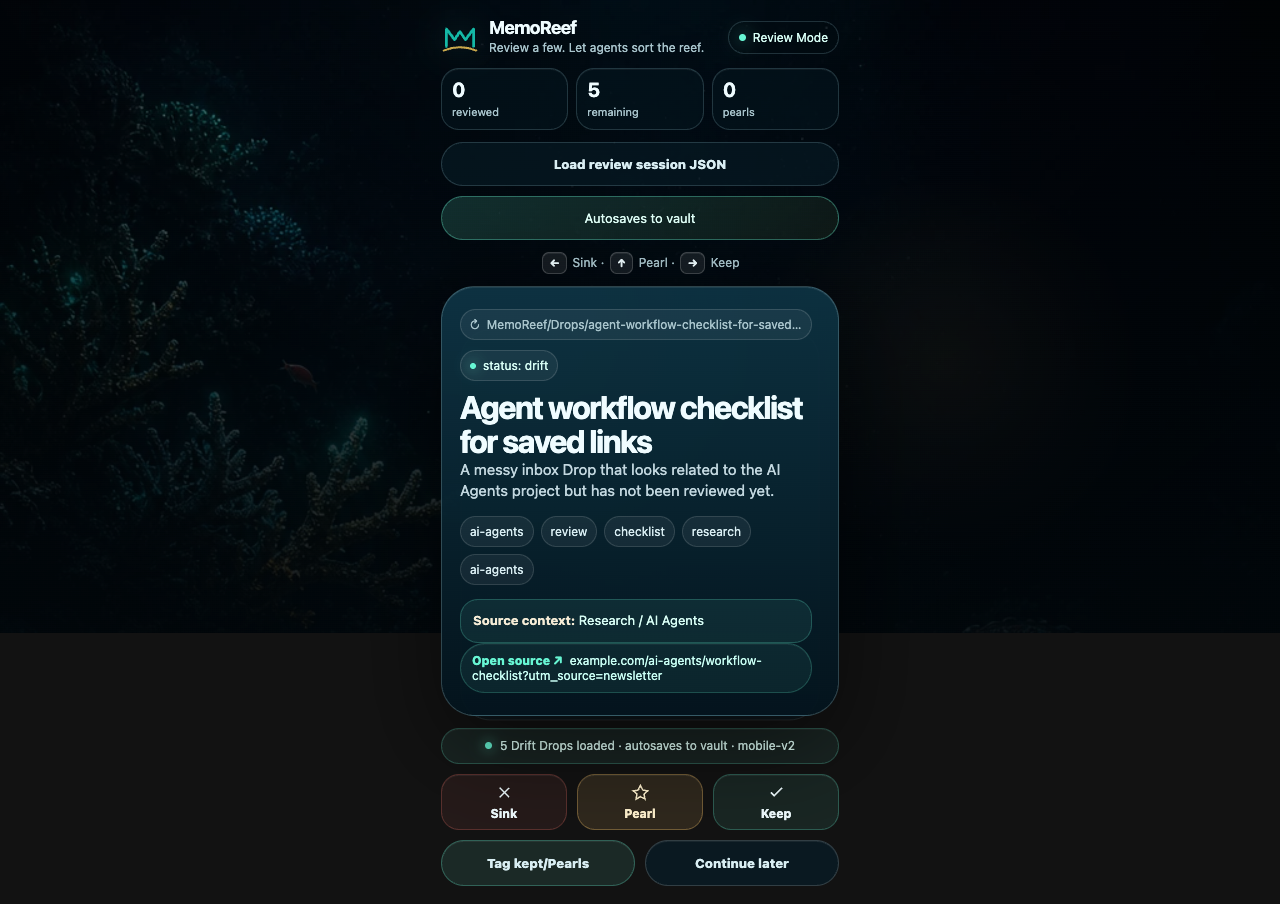
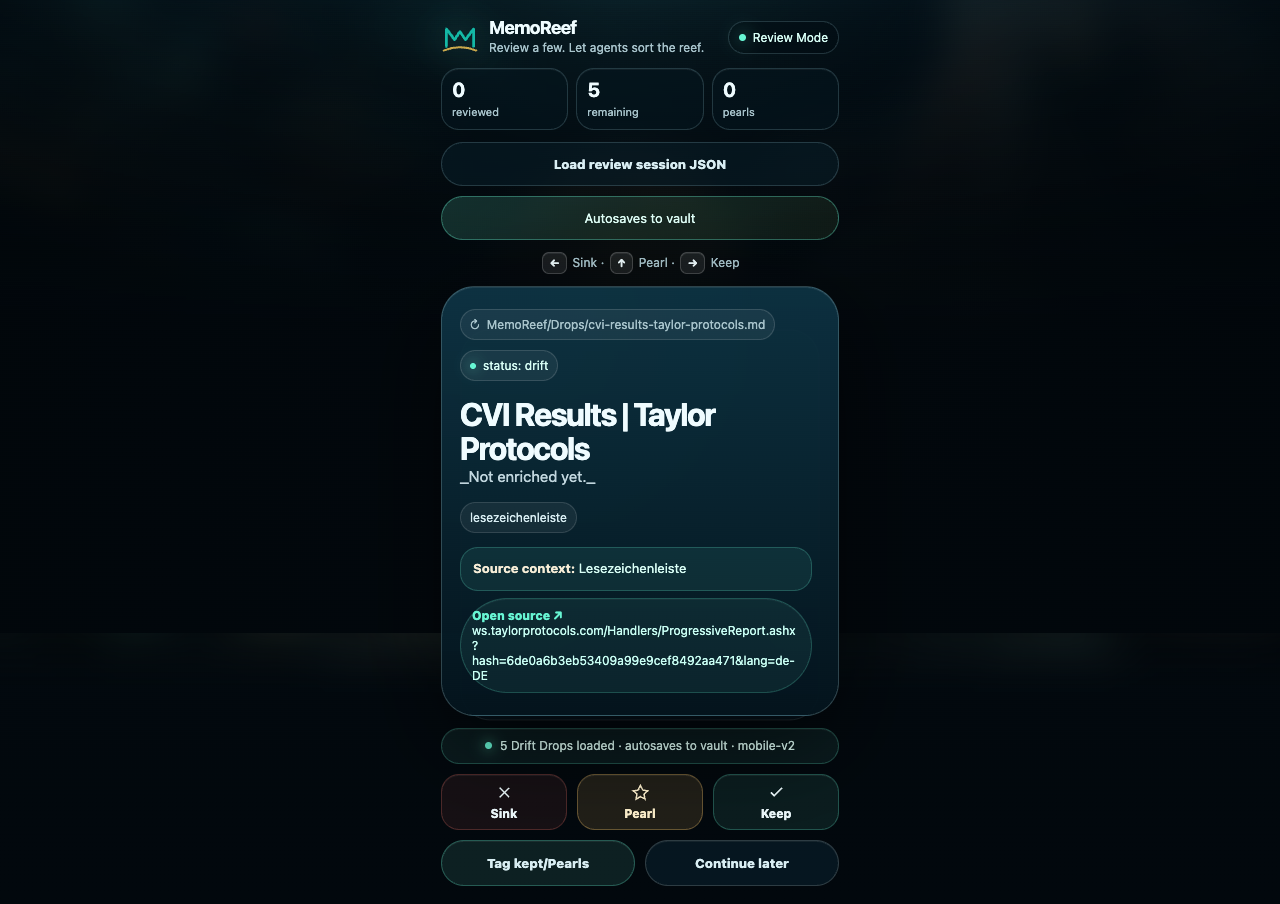
Fix Review Mode screenshot background

diff --git a/site/swipe.html b/site/swipe.html
@@ -44,7 +44,6 @@
       color: var(--ink);
       background:
         linear-gradient(180deg, rgba(1, 6, 10, .06), rgba(1, 6, 10, .56) 48%, #02080d 100%),
-        url("img/masters/reef-octopus-master-v3.webp") center top / cover fixed,
         radial-gradient(circle at 50% -10%, rgba(103, 245, 211, .18), transparent 18rem),
         linear-gradient(180deg, #0a2b3b 0%, var(--deep) 38%, var(--abyss) 100%);
       overflow-x: hidden;
@@ -61,15 +60,19 @@
     }
 
     body::before {
-      display: none;
+      display: block;
+      background: url("img/kling_sources/horizontal/s5-octopus-horizontal-16x9-source.png") center center / cover no-repeat;
+      filter: blur(18px) saturate(.9);
+      opacity: .46;
+      transform: scale(1.08);
     }
 
     body::after {
       background:
-        linear-gradient(90deg, rgba(1,6,10,.56), rgba(1,6,10,.12) 48%, rgba(1,6,10,.6)),
-        linear-gradient(180deg, rgba(1,6,10,.18), rgba(1,6,10,.72)),
-        radial-gradient(circle at 74% 58%, rgba(255,200,107,.16), transparent 12rem);
-      opacity: .78;
+        linear-gradient(90deg, rgba(1,6,10,.64), rgba(1,6,10,.18) 48%, rgba(1,6,10,.66)),
+        linear-gradient(180deg, rgba(1,6,10,.12) 0%, rgba(1,6,10,.72) 34%, rgba(2,8,13,.98) 54%, #02080d 100%),
+        radial-gradient(circle at 74% 58%, rgba(255,200,107,.08), transparent 12rem);
+      opacity: 1;
     }
 
     button,